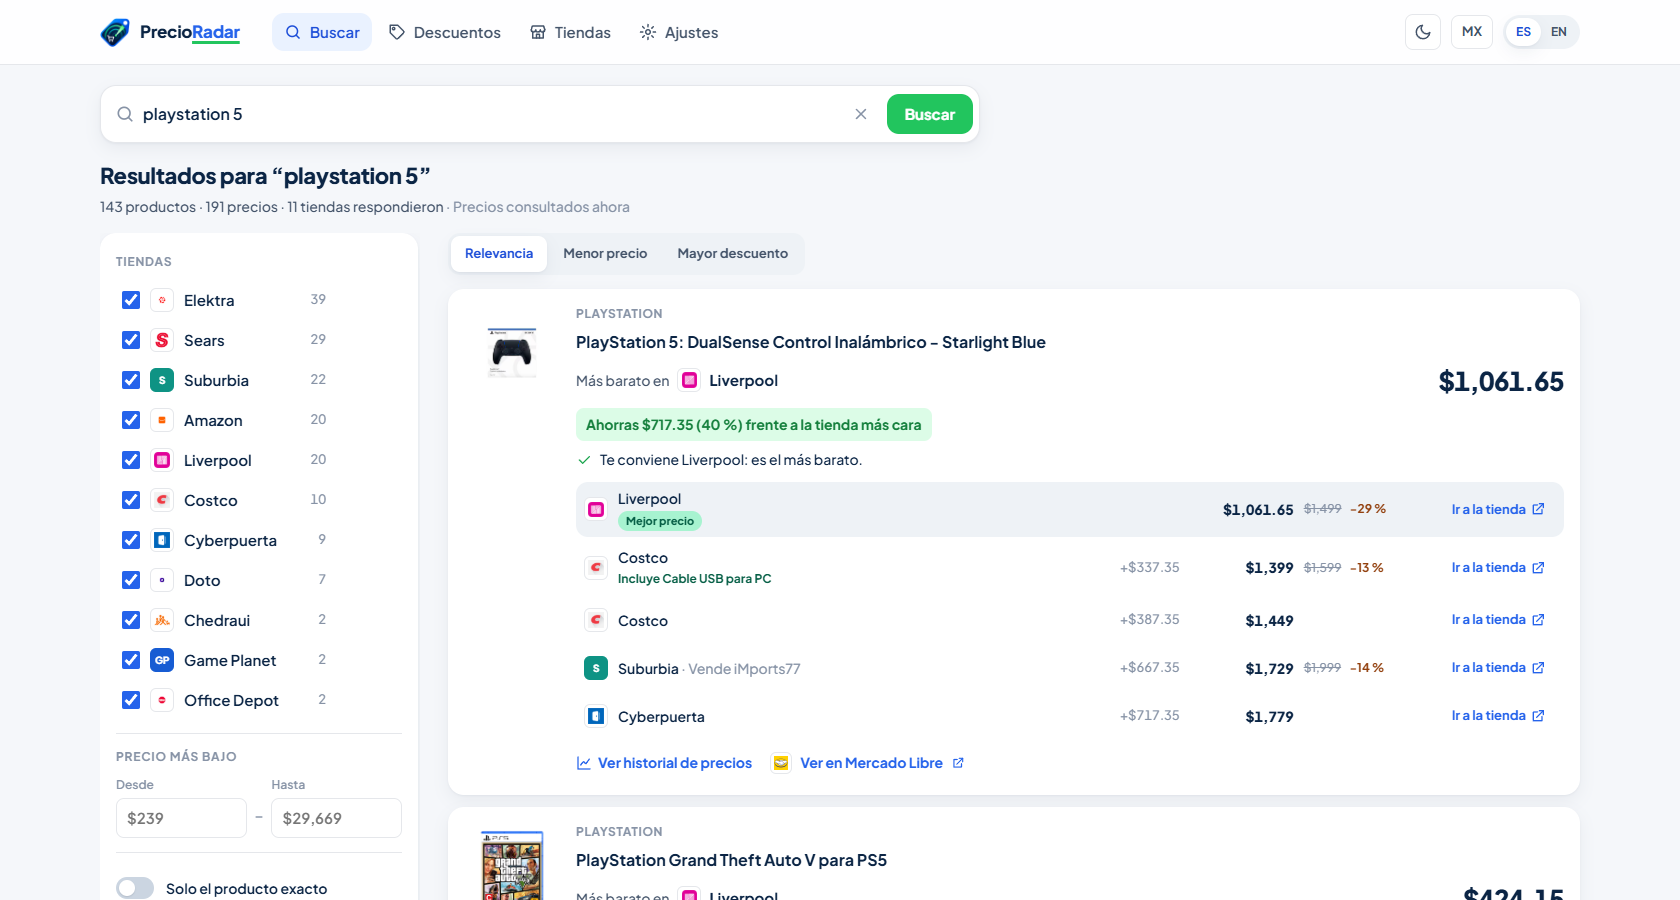
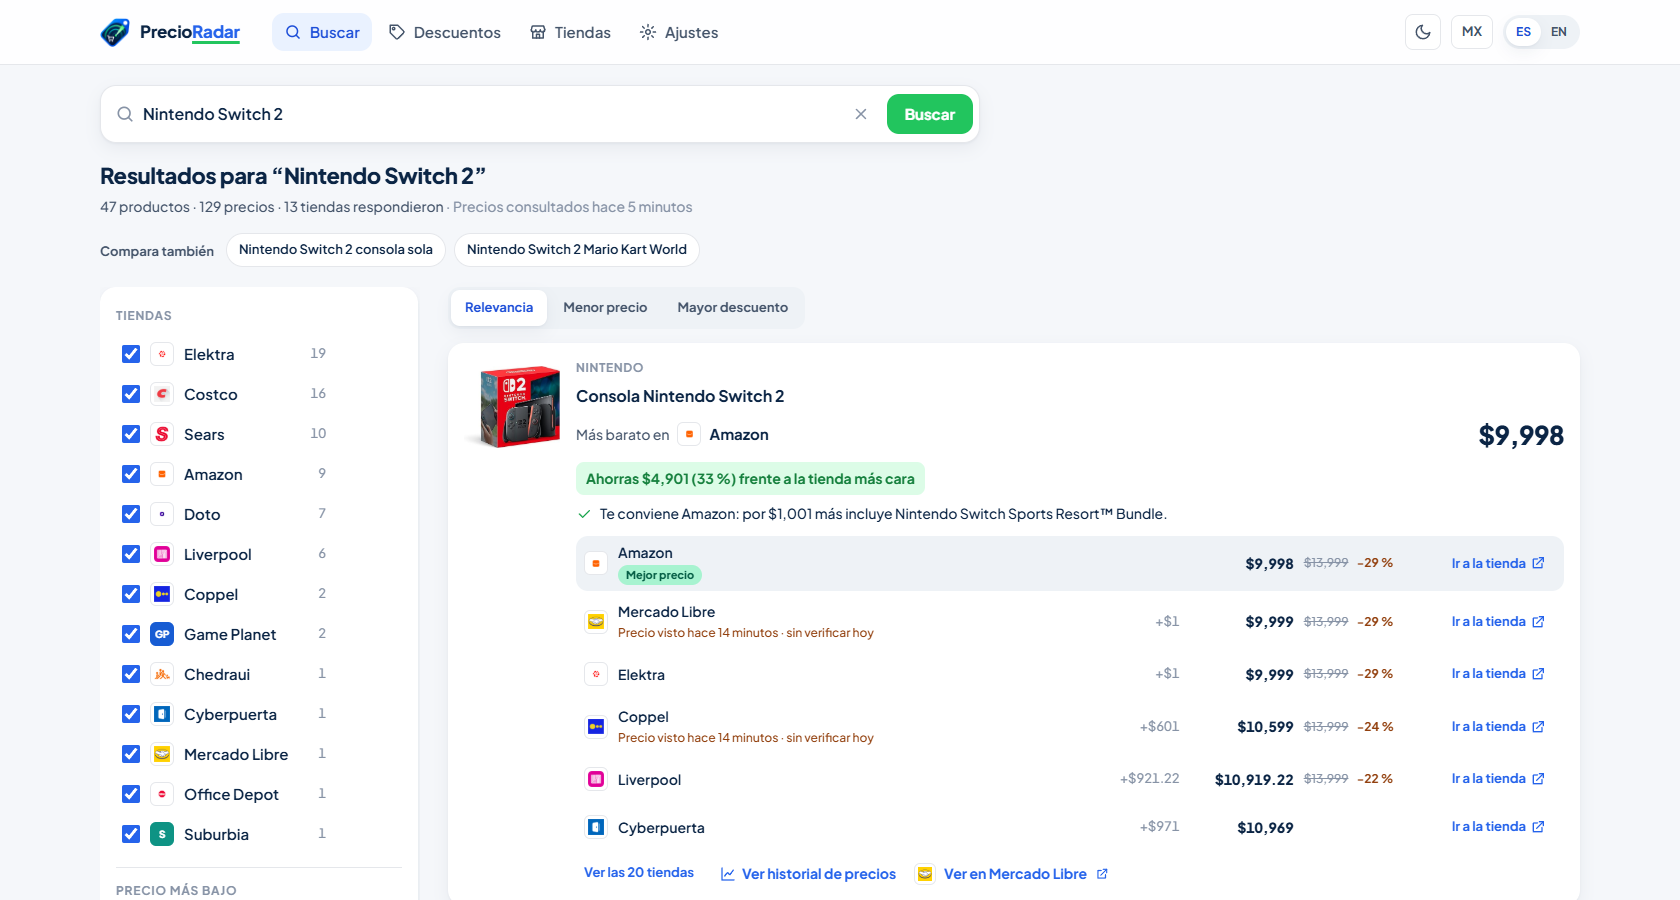
README: captura de resultados e imagen social con Nintendo Switch 2 (la consola primero)

diff --git a/README.md b/README.md
@@ -30,7 +30,7 @@ Busca un producto y compara su precio en 21 tiendas de México al mismo tiempo, 
 
 <br clear="right">
 
-<p align="center"><img src="docs/capturas/02-resultados-claro.png" width="100%" alt="Resultados de PlayStation 5: tiendas a la izquierda, una tarjeta por producto con la tienda más barata y cuánto más cuesta en las demás"></p>
+<p align="center"><img src="docs/capturas/02-resultados-claro.png" width="100%" alt="Resultados de Nintendo Switch 2: tiendas a la izquierda, una tarjeta por producto con la tienda más barata y cuánto más cuesta en las demás"></p>
 <p align="center"><sub>Un producto por tarjeta: la tienda más barata, cuánto más cuesta en las demás y qué te conviene.</sub></p>
 
 <p align="center"><img src="docs/capturas/04-historial-grafica.png" width="78%" alt="Historial de precios por tienda con flechas de bajó, subió o igual"></p>
